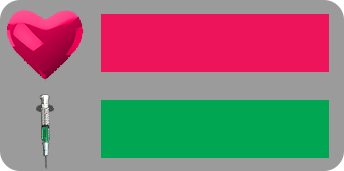
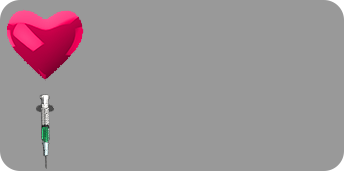
init

diff --git a/Escape/Prison.xaml b/Escape/Prison.xaml
@@ -23,6 +23,8 @@
         <Button Content="Intro" FontSize="50" Click="go_intro" Margin="283,329,10,22" RenderTransformOrigin="0.5,0.5" Grid.Row="1" Height="Auto" Grid.Column="1"/>
         <!--Bary-->
         <Image Source="img/bars.png" Margin="541.2,10,23.6,288.2" Grid.Column="1"/>
+        <ProgressBar x:Name="hpBar" Height="Auto" Background="#FFF05789" Grid.Column="1" Margin="598.2,26,30.6,353.2" BorderBrush="{x:Null}" Foreground="#FFED145B"/>
+        <ProgressBar x:Name="drugBar" Height="Auto" Background="#FF35E48A" Grid.Column="1" Margin="598.2,75,30.6,303.2" BorderBrush="{x:Null}" Foreground="#FF00A651" />
         <!--HP-->
         <Label Name="hp" Content="null" FontSize="20" Foreground="White" Grid.Column="1" Margin="646.2,23,33.6,347.2" HorizontalAlignment="Center" VerticalAlignment="Center" Height="45" Width="85"/>
         <!--Dopamin-->
@@ -33,11 +35,12 @@
             <TextBox x:Name="gameConsoleInput" Width="186" VerticalContentAlignment="Center" MaxHeight="300" HorizontalAlignment="Left" VerticalAlignment="Top" Height="30" Background="Black" Foreground="Lime" BorderBrush="{x:Null}"/>
             <Button x:Name="gameConsoleButton" Width="65" Height="30" Content="Enter" Click="gameConsole_click" Background="Black" Foreground="Lime" BorderBrush="{x:Null}"/>
         </WrapPanel>
-        <!--Pauza hry-->
-        <local:Pause x:Name="Game_pause" Visibility="Hidden" Grid.ColumnSpan="2" Grid.RowSpan="2"/>
+        <!--Ovládání scény-->
         <Button Content="1" FontSize="50" Click="prvni" Margin="371,98,302,251" RenderTransformOrigin="0.5,0.5" Height="Auto" Grid.Row="1" Grid.Column="1"/>
         <Button Content="2" FontSize="50" Click="druhy" Margin="468,98,205,251" RenderTransformOrigin="0.5,0.5" Height="Auto" Grid.Row="1" Grid.Column="1"/>
         <Button Content="3" FontSize="50" Click="treti" Margin="371,169,302,180" RenderTransformOrigin="0.5,0.5" Height="Auto" Grid.Row="1" Grid.Column="1"/>
         <Button Content="4" FontSize="50" Click="ctvrty" Margin="468,169,205,180" RenderTransformOrigin="0.5,0.5" Height="Auto" Grid.Row="1" Grid.Column="1"/>
+        <!--Pauza hry-->
+        <local:Pause x:Name="Game_pause" Visibility="Hidden" Grid.ColumnSpan="2" Grid.RowSpan="2"/>
     </Grid>
 </Page>

diff --git a/Escape/MainWindow.xaml b/Escape/MainWindow.xaml
@@ -6,7 +6,7 @@
         xmlns:mc="http://schemas.openxmlformats.org/markup-compatibility/2006"
         xmlns:local="clr-namespace:Escape"
         mc:Ignorable="d"   
-        Title="Escape" WindowStyle="none" Left="0" Top="0" Width="1536" Height="830">
+        Title="Escape" Background="Black" WindowStyle="none" Left="0" Top="0" Width="1536" Height="830">
     <Grid>
         <Frame x:Name="myFrame" NavigationUIVisibility="Hidden"/>
     </Grid>

diff --git a/Escape/Prison.xaml.cs b/Escape/Prison.xaml.cs
@@ -20,28 +20,31 @@ namespace Escape {
     /// </summary>
     public partial class Prison : Page {
 
-        string last_command;
+        int lastCommandIndex = 0;
         int actual_hp = 100;
         int actual_dopamine = 100;
+        bool admin = false;
 
         private Frame parentFrame;
         DispatcherTimer dopamin_timer = new DispatcherTimer();
 
         Dictionary<string, Uri> prison_bg = new Dictionary<string, Uri>();
-        void pozadi() {
+        private void initializeBG() {
             prison_bg.Add("PrisonBG1", new Uri(@"img/bg/bg_game_1.jpg", UriKind.Relative));
             prison_bg.Add("PrisonBG2", new Uri(@"img/bg/bg_game_2.jpg", UriKind.Relative));
             prison_bg.Add("PrisonBG3", new Uri(@"img/bg/bg_game_3.jpg", UriKind.Relative));
             prison_bg.Add("PrisonBG4", new Uri(@"img/bg/bg_game_4.jpg", UriKind.Relative));
         }
 
-        List<string> consoleCommands = new List<string> { "help", "clear", "heal", "get high" };
+        List<string> consoleCommands = new List<string> { "help", "clear", "color" };
+        List<string> consoleCommands_admin = new List<string> 
+        { "help", "clear", "heal", "get high", "color", "freeze", "unfreeze" , "exit" };
+        Stack<string> lastConsoleComands = new Stack<string>();
 
         public Prison() {
             InitializeComponent();
-            pozadi();
-            informace();
-            dopamin_counter();
+            initializeBars();
+            initializeBG();
         }
         public Prison(Frame parentFrame) : this() {
             this.parentFrame = parentFrame;
@@ -49,6 +52,7 @@ namespace Escape {
 
         private void Page_loaded(object sender, RoutedEventArgs e) {
             Application.Current.MainWindow.KeyDown += new KeyEventHandler(Controls);
+            gameConsoleInput.PreviewKeyDown += new KeyEventHandler(Sipky);
         }
 
         public void prvni(object sender, RoutedEventArgs e) {
@@ -64,6 +68,19 @@ namespace Escape {
             bg.Source = new BitmapImage(prison_bg["PrisonBG4"]);
         }
 
+        void initializeBars() {
+            hpBar.Minimum = 0;
+            hpBar.Maximum = 100;
+            hpBar.Value = 100;
+
+            drugBar.Minimum = 0;
+            drugBar.Maximum = 100;
+            drugBar.Value = 100;
+
+            informace();
+            dopamin_counter();
+        }
+
         void informace() {
             hp.Content = actual_hp + "%";
             dopamin.Content = actual_dopamine + "%";
@@ -73,100 +90,140 @@ namespace Escape {
         private void go_menu(object sender, RoutedEventArgs e) {
             parentFrame.Navigate(new Menu(parentFrame));
             Application.Current.MainWindow.KeyDown -= new KeyEventHandler(Controls);
+            gameConsoleInput.PreviewKeyDown -= new KeyEventHandler(Sipky);
         }
         private void go_intro(object sender, RoutedEventArgs e) {
             parentFrame.Navigate(new Intro(parentFrame));
             Application.Current.MainWindow.KeyDown -= new KeyEventHandler(Controls);
+            gameConsoleInput.PreviewKeyDown -= new KeyEventHandler(Sipky);
         }
-        private void Controls(object sender, KeyEventArgs e) {
-            //Pauza
-            if (e.Key == Key.Escape) {
-                if (Game_pause.Visibility == Visibility.Hidden) {
-                    Game_pause.Visibility = Visibility.Visible;
-                } else {
-                    Game_pause.Visibility = Visibility.Hidden;
-                }
-            }
-            //Otevření konzole
-            if (e.Key == Key.OemTilde) {
-                if (gameConsole.Visibility == Visibility.Hidden) {
-                    gameConsole.Visibility = Visibility.Visible;
-                } else {
-                    gameConsole.Visibility = Visibility.Hidden;
-                }
-            }
-            //Odeslání příkazu
-            if (e.Key == Key.Enter) {
 
-                sendGameConsoleData();
-            }
-            if (gameConsole.Visibility == Visibility.Visible) {
-                if (e.Key == Key.F1) {
-                        gameConsoleInput.Text = last_command;
-                }
-            }
-        }
         // CONSOLE
         private void gameConsole_click(object sender, RoutedEventArgs e) {
-            last_command = gameConsoleInput.Text;
             sendGameConsoleData();
-        }
-
-        bool gameConsoleCommands(string command) {
-            bool commandExist = false;
-            if (command == "clear") {
-                commandExist = true;
-            } else if (command == "heal") {
-                commandExist = true;
-            } else if (command == "get high") {
-                commandExist = true;
-                actual_dopamine = 100;
-            } else if (command.Contains("color")) {
-                string[] barva = command.Split(new string[] { "color " }, StringSplitOptions.None);
-                var barva_cnvrt = (Color)ColorConverter.ConvertFromString(barva[1]);
-                gameConsoleInfo.Foreground = new SolidColorBrush(barva_cnvrt);
-                gameConsoleInput.Foreground = new SolidColorBrush(barva_cnvrt);
-                gameConsoleButton.Foreground = new SolidColorBrush(barva_cnvrt);
-            } else if (command == "exit") {
-                commandExist = true;
-                System.Windows.Application.Current.Shutdown();
-            }
-            if (command == "help") {
-                gameConsoleInfo.Text = gameConsoleInfo.Text + "######## Commands ########\n\n";
-                foreach (string consoleCommand in consoleCommands) {
-                    gameConsoleInfo.Text = gameConsoleInfo.Text + "/" + consoleCommand + "\n";
-                }
-                gameConsoleInfo.Text = gameConsoleInfo.Text + "\n##########################\n";
-                commandExist = true;
-            }
-
-            return commandExist;
         }
 
         void sendGameConsoleData() {
             if (gameConsoleInput.Text != "") {
-                string conseleInput = gameConsoleInput.Text;
+                string consoleInput = gameConsoleInput.Text;
                 deleteGameConsoleInput();
 
-                char[] commandArray = conseleInput.ToCharArray();
+                char[] commandArray = consoleInput.ToCharArray();
 
                 if (commandArray[0] == 47) {
                     if (gameConsoleCommands(new string(commandArray.Skip(1).ToArray()))) {
-                        if (conseleInput != "/clear") {
-                            conseleInput = "Command '" + new string(commandArray.Skip(1).ToArray()) + "' activated\n";
+                        if (consoleInput != "/clear") {
+                            consoleInput = DateTime.Now.ToString("HH:mm") + "   " + "Command '" + new string(commandArray.Skip(1).ToArray()) + "' activated\n";
                         } else {
                             gameConsoleInfo.Clear();
-                            conseleInput = "";
+                            consoleInput = "";
                         }
                     } else {
-                        conseleInput = "Unknown command '" + new string(commandArray.Skip(1).ToArray()) + "'\n";
+                        if (consoleInput != "/color") {
+                            consoleInput = DateTime.Now.ToString("HH:mm") +"   " + "Unknown command '" + new string(commandArray.Skip(1).ToArray()) + "'\n";
+                        }
                     }
                 } else {
-                    conseleInput = conseleInput + "\n";
+                    consoleInput = DateTime.Now.ToString("HH:mm") + "   " + consoleInput + "\n";
                 }
 
-                gameConsoleInfo.Text = gameConsoleInfo.Text + conseleInput;
+                gameConsoleInfo.Text = gameConsoleInfo.Text + consoleInput;
                 gameConsoleInfo.ScrollToEnd();
+            }
+        }
+
+        bool gameConsoleCommands(string command) {
+            bool commandExist = false;
+            if (command == "login admin") {
+                commandExist = true;
+                admin = true;
+            } else if (command == "logout" && admin == true) {
+                commandExist = true;
+                admin = false;
+            } else if (command == "heal" && admin == true) {
+                commandExist = true;
+            } else if (command == "get high" && admin == true) {
+                commandExist = true;
+                actual_dopamine = 100;
+                drugBar.Value = 100;
+                dopamin.Content = actual_dopamine + "%";
+            } else if (command == "freeze" && admin == true) {
+                commandExist = true;
+                dopamin_timer.Stop();
+            } else if (command == "unfreeze" && admin == true) {
+                commandExist = true;
+                dopamin_timer.Start();
+            } else if (command == "exit" && admin == true) {
+                commandExist = true;
+                System.Windows.Application.Current.Shutdown();
+            } else if (command == "color") {
+                gameConsoleInfo.Text = gameConsoleInfo.Text + DateTime.Now.ToString("HH:mm") + "   " + "Prosím specifikuj barvu! \n";
+            } else if (command.Contains("color")) {
+                commandExist = true;
+                string[] barva = command.Split(' ');
+                var barva_cnvrt = (Color)ColorConverter.ConvertFromString(barva[1]);
+                gameConsoleInfo.Foreground = new SolidColorBrush(barva_cnvrt);
+                gameConsoleInput.Foreground = new SolidColorBrush(barva_cnvrt);
+                gameConsoleButton.Foreground = new SolidColorBrush(barva_cnvrt);
+            } else if (command == "clear") {
+                commandExist = true;
+            }
+
+                if (command == "help") {
+                gameConsoleInfo.Text = gameConsoleInfo.Text + "######## Příkazy ########\n\n";
+                if (admin == false) {
+                    foreach (string consoleCommand in consoleCommands) {
+                        gameConsoleInfo.Text = gameConsoleInfo.Text + "/" + consoleCommand + "\n";
+                    }
+                } else {
+                    //Pro admina
+                    int mezera_commandy = -1;
+                    int mezera_commandy_last = 0;
+                    foreach (string consoleCommand in consoleCommands_admin) {
+                        if (mezera_commandy_last == consoleCommands_admin.Count() - 1) {
+                            gameConsoleInfo.Text = gameConsoleInfo.Text + consoleCommand + "\n";
+                        } else {
+                            if (mezera_commandy == 3) {
+                                gameConsoleInfo.Text = gameConsoleInfo.Text + "\n";
+                                gameConsoleInfo.Text = gameConsoleInfo.Text + "/" + consoleCommand + " , ";
+                                mezera_commandy = 0;
+                                mezera_commandy_last++;
+                            } else {
+                                gameConsoleInfo.Text = gameConsoleInfo.Text + "/" + consoleCommand + " , ";
+                                mezera_commandy++;
+                                mezera_commandy_last++;
+                            }
+                        }
+                    }
+                }
+                gameConsoleInfo.Text = gameConsoleInfo.Text + "\n##########################\n";
+                commandExist = true;
+            }
+            if (commandExist) {
+                lastConsoleComands.Push(command);
+                lastCommandIndex = 0;
+            }
+            return commandExist;
+        }
+
+        void lastCommandUp() {
+            try {
+                gameConsoleInput.Text = "/" + lastConsoleComands.ElementAt(lastCommandIndex);
+
+                if (lastCommandIndex + 1 < lastConsoleComands.Count) {
+                    lastCommandIndex++;
+                }
+            } catch (Exception) {
+            }
+        }
+
+        void lastCommandDown() {
+            try {
+                if (lastCommandIndex - 1 >= 0) {
+                    lastCommandIndex--;
+                }
+                gameConsoleInput.Text = "/" + lastConsoleComands.ElementAt(lastCommandIndex);
+            } catch (Exception) {
             }
         }
 
@@ -181,14 +238,52 @@ namespace Escape {
 
         // DOPAMIN
         void dopamin_counter() {
-            dopamin_timer.Interval = new TimeSpan(0, 0, 0, 0, 1000);
+            dopamin_timer.Interval = new TimeSpan(0, 0, 0, 0, 500);
             dopamin_timer.Tick += new EventHandler(dopamin_Tick);
             dopamin_timer.Start();
         }
 
         void dopamin_Tick(object sender, EventArgs e) {
-            actual_dopamine--;
+            if (actual_dopamine > 0) {
+                actual_dopamine--;
+            }
+            drugBar.Value--;
             dopamin.Content = actual_dopamine + "%";
+        }
+        public void Sipky(object sender, KeyEventArgs e) {
+            //Poslední a předchozí příkaz
+            if (e.Key == Key.Up) {
+                lastCommandUp();
+            }
+
+            if (e.Key == Key.Down) {
+                lastCommandDown();
+            }
+        }
+
+        private void Controls(object sender, KeyEventArgs e) {
+            //Pauza
+            if (e.Key == Key.Escape) {
+                if (Game_pause.Visibility == Visibility.Hidden) {
+                    Game_pause.Visibility = Visibility.Visible;
+                    dopamin_timer.Stop();
+                } else {
+                    Game_pause.Visibility = Visibility.Hidden;
+                    dopamin_timer.Start();
+                }
+            }
+            //Otevření konzole
+            if (e.Key == Key.OemTilde) {
+                if (gameConsole.Visibility == Visibility.Hidden) {
+                    gameConsole.Visibility = Visibility.Visible;
+                } else {
+                    gameConsole.Visibility = Visibility.Hidden;
+                }
+            }
+            //Odeslání příkazu
+            if (e.Key == Key.Enter) {
+                sendGameConsoleData();
+            }
         }
     }
 }
